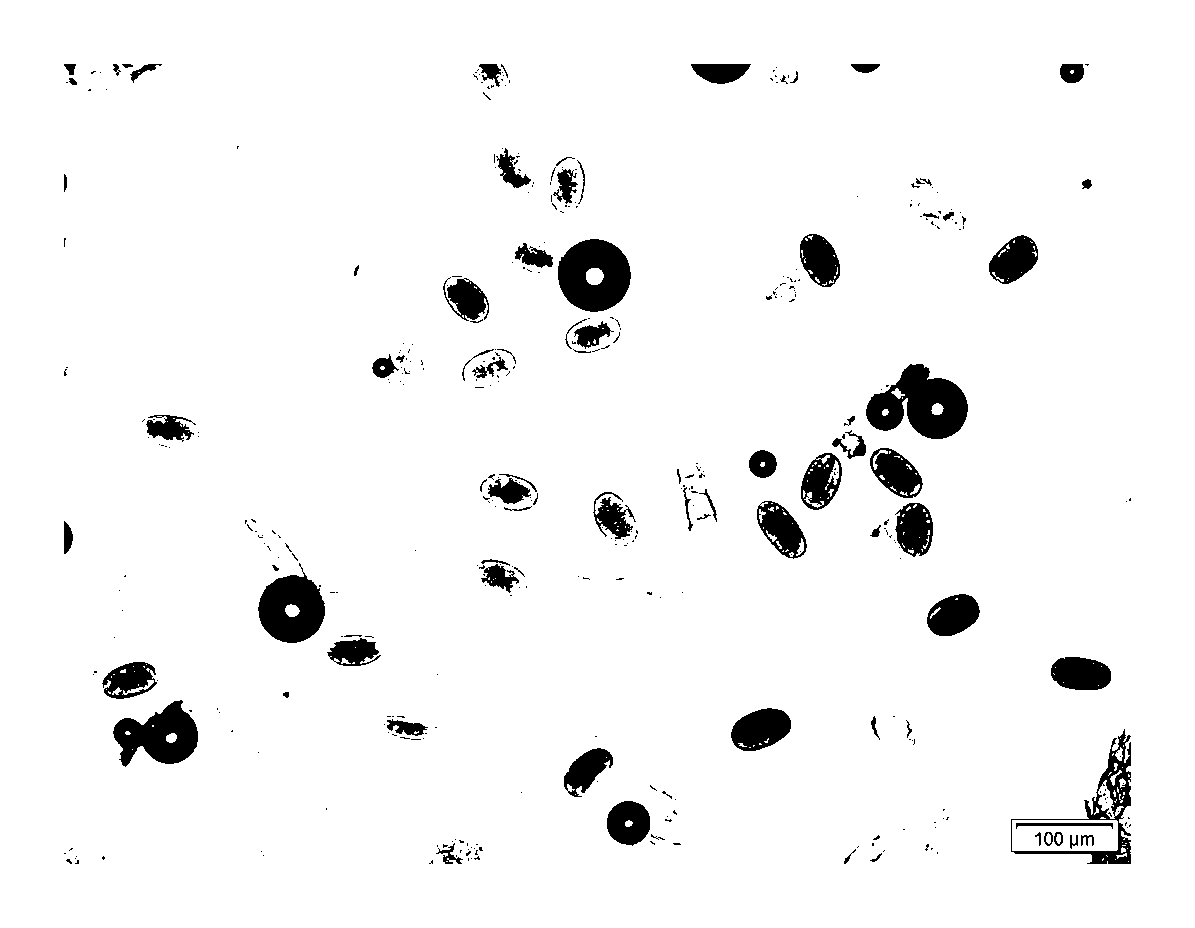
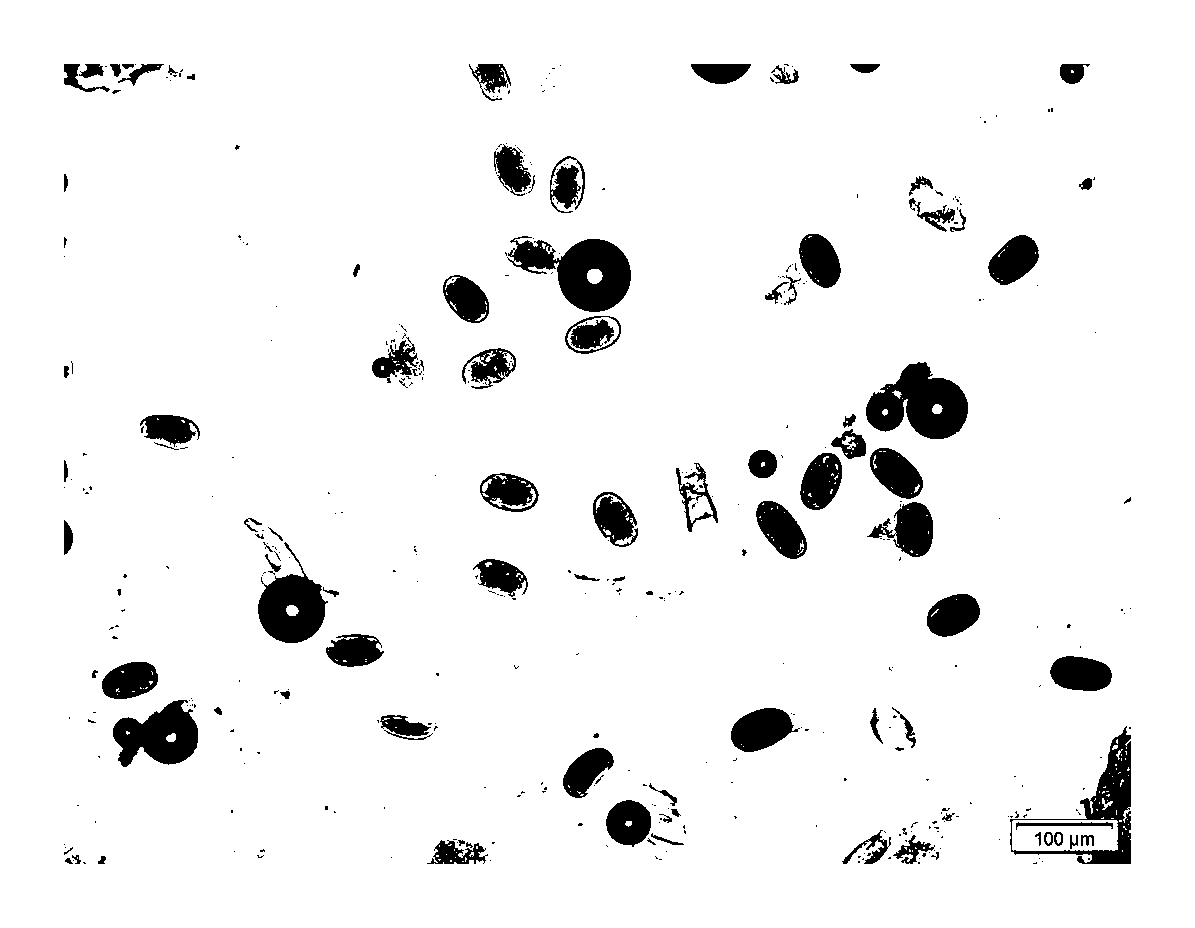
e

diff --git a/test.py b/test.py
@@ -8,6 +8,7 @@ from matplotlib.animation import FuncAnimation
 import sys
 from imageHelper import pad, pad_all
 from detect import testProtocol, Parasite
+import math
 
 from ellipseDetector import ellipseDetector
 
@@ -26,25 +27,22 @@ for fileName in ImageFiles:
             topLeft = (int(cX-width/2), int(cY-height/2))
             bottomRight = (int(cX+width/2), int(cY+height/2))
             area = width*height
-            Parasites.append(Parasite(cX, cY, width, height, area))
             testImg = cv2.rectangle(testImg, topLeft, bottomRight, (0,130,0), 2)
+            cX+=64 #ACCOUNTS FOR PADDING
+            cY+=64
+            Parasites.append(Parasite(cX, cY, width, height, area))
 
-    Images.append((testImg, fileName))
+    Images.append((testImg, fileName, Parasites))
     #cv2.imshow("TEST", testImg)
     #cv2.waitKey(0)
     #cv2.destroyAllWindows()
-    
-def calculate_error(expected, observed):
-    pass  
 
 def getTestImages(Images):
+    print(len(Images))
     detected = []
     for (img,file,Parasites) in Images:
         im_t, observed = testProtocol(file, img, 210, Parasites)
-        
-        
-        
-        
+        calculate_error(Parasites,observed)
         image_rgb = cv2.cvtColor(im_t, cv2.COLOR_BGR2RGB)
         pil_image = Image.fromarray(image_rgb)
         pil_image = pil_image.resize((533,400), Image.Resampling.LANCZOS)
@@ -52,6 +50,73 @@ def getTestImages(Images):
         detected.append(tk_image)
     
     return detected
+
+def calculate_squared_distance(x1, y1, x2, y2):
+    return (x2 - x1) ** 2 + (y2 - y1) ** 2
+
+def calculate_error(expected, observed):
+    exp_size = len(expected)
+    ob_size = len(observed)
+    miss_nums = []
+
+    if ob_size > exp_size * 1.5:
+        print("Too many detected parasites, increase binary threshold.")
+        #return miss_nums
+    elif ob_size < exp_size * 0.4:
+        print("Not enough detected parasites, decrease binary threshold.")
+        #return miss_nums
+
+    duplicates = 0
+    misses = 0
+    total_error = 0
+    undetected = 0
+
+    detection_paired = [1] * ob_size
+
+    for i in range(exp_size):
+        max_dist = 901
+        paired = False
+        p1 = expected[i]
+        for a in range(ob_size):
+            p2 = observed[a]
+            curr_dist = calculate_squared_distance(p1.centerX, p1.centerY, p2.centerX, p2.centerY)
+            if curr_dist < 900:
+                detection_paired[a] = 0
+                real_dist = math.sqrt(curr_dist)
+
+                if not paired:
+                    paired = True
+                    total_error += 0.1 * real_dist
+                else:
+                    duplicates += 1
+                    #print(f"DUPLICATE parasite detection found at {p2.centerX},{p2.centerY}")
+                    total_error += 0.5 * real_dist
+                #print(f"\nOBSERVED PARASITE found at {p2.centerX},{p2.centerY}")
+                #print(f"{real_dist} from expected parasite at {p1.centerX}, {p1.centerY}")
+
+                if curr_dist < max_dist:
+                    max_dist = curr_dist
+        if max_dist == 901:
+            #print(f"Undetected Barber Worm Egg!!! at {p1.centerX},{p1.centerY}")
+            undetected += 1
+
+    for i, num in enumerate(detection_paired):
+        if num == 1:
+            miss_nums.append(i)
+        misses += num
+
+    print("\n-----------PERFORMANCE-----------\n")
+    print(f"Parasites Expected: {exp_size}")
+    print(f"Parasites Detected: {ob_size}")
+    print(f"Undetected Parasite Eggs: {undetected}")
+    print(f"False Positive Eggs: {misses}\n")
+    print("\n---------ERROR ANALYSIS----------\n")
+    print(f"DistanceError: {total_error}")
+    total_error += 5 * misses
+    total_error += 20 * undetected
+    print(f"Total Error Score: {total_error}\n")
+
+    return miss_nums
 
 
 root = tk.Tk()
@@ -66,7 +131,7 @@ label3 = tk.Label(root, image = testImgs[2])
 
 label1.grid(row=0, column=0)
 label2.grid(row=1, column=0)
-label3.grid(row=2, column=0)
+label3.grid(row=1, column=1)
 
 root.geometry("1500x800")
 

diff --git a/detect.py b/detect.py
@@ -12,15 +12,28 @@ class Parasite:
         self.height = height
         self.estArea = estArea
 
-def getBestEllipse(ellipseHelper, Contour):
-    return ellipseHelper.fitEllipse_Polygon(Contour)
+def getBestEllipse(ellipseHelper, Contour, size):
+    return ellipseHelper.fitEllipse_Polygon(Contour,size)
 
 def getBinaryThreshold(gray_image, threshold):
+    blur = cv2.GaussianBlur(gray_image, (3,3), 0)
+    otsu_threshold, image_result = cv2.threshold(blur, 0, 255, cv2.THRESH_BINARY + cv2.THRESH_OTSU)
+    return(image_result)
+    
     #OTSU METHOD
-    return cv2.threshold(gray_image, 0, 255, cv2.THRESH_BINARY+cv2.THRESH_OTSU)[1]
+    #return cv2.threshold(gray_image, 0, 255, cv2.THRESH_BINARY+cv2.THRESH_OTSU)[1]
+
+    #OTSU with Blur
+    #
+    #return cv2.threshold(blur, 0, 255, cv2.THRESH_BINARY+cv2.THRESH_OTSU)[1]
+
+    #Adaptive Thresholding with Blur 
+    #return cv2.adaptiveThreshold(blur, 255, cv2.ADAPTIVE_THRESH_MEAN_C, cv2.THRESH_BINARY, 9, 3)
+
+    #return cv2.adaptiveThreshold(blur, 255, cv2.ADAPTIVE_THRESH_GAUSSIAN_C, cv2.THRESH_BINARY, 9, 3)
     
     #TRADITIONAL METHOD
-    #return cv2.threshold(gray_image, threshold, 255, cv2.THRESH_BINARY)[1] 
+    #return cv2.threshold(gray_image, 220, 255, cv2.THRESH_BINARY)[1] 
 
 def detectParasites(fileName, thresh, outFile = "", saveImages = True):
     
@@ -34,6 +47,7 @@ def detectParasites(fileName, thresh, outFile = "", saveImages = True):
     #print(binary.shape)
     #print(contourImage.shape)
     #print(contourImage)
+    size = im_gray.shape
     
     im_gray, binary, contourImage, ellipseImage = pad_all([im_gray, binary, contourImage, ellipseImage])
     
@@ -53,10 +67,11 @@ def detectParasites(fileName, thresh, outFile = "", saveImages = True):
     
     num_eggs = 0
     
+    
     ellipseHelper = ellipseDetector()
     for contour in contours: 
         if len(contour)>=5:
-            bestEllipse = getBestEllipse(ellipseHelper, contour)
+            bestEllipse = getBestEllipse(ellipseHelper, contour, size)
             if not bestEllipse == None: 
                 cv2.ellipse(ellipseImage, bestEllipse, (0,0,255), 3)
                 num_eggs+=1
@@ -80,6 +95,8 @@ def testProtocol(fileName, img, thresh, Parasites):
     
     binary = getBinaryThreshold(im_gray, thresh)
     
+    size = im_gray.shape
+    
     im_gray, binary, greenMat = pad_all([im_gray, binary, greenMat])
     
     contours = cv2.findContours(binary, cv2.RETR_TREE, cv2.CHAIN_APPROX_SIMPLE)[0]
@@ -90,7 +107,7 @@ def testProtocol(fileName, img, thresh, Parasites):
     observedParasites = []
     for contour in contours: 
         if len(contour)>=5:
-            bestEllipse = getBestEllipse(ellipseHelper, contour)
+            bestEllipse = getBestEllipse(ellipseHelper, contour, size)
             if not bestEllipse == None: 
                 cv2.ellipse(greenMat, bestEllipse, (0,0,255), 3)
                 (cx,cy),(ma,ml),a = bestEllipse

diff --git a/plot_test.py b/plot_test.py
@@ -2,35 +2,32 @@ import matplotlib.pyplot as plt
 import numpy as np
 
 # Data
-samples = ['Easy', 'Medium', 'Hard']
-
-errors_image1 = [85,75, 90, 75,75,]
-errors_image2 = [556,525,506, 546,545,]
-errors_image3 = [486,496, 493, 467,482,]
-
-
+months = ['January', 'February', 'March', 'April', 'May']
+sales_2020 = [200, 220, 250, 210, 230]
+car_sales_2021 = [120, 140, 160, 130, 150]  # New data for car sales in 2021
+real_estate_sales_2021 = [90, 100, 100, 90, 100]  # New data for real-estate sales in 2021
 
 # Calculating total sales for 2021 by summing car sales and real-estate sales
-observed_parasites = [car + real_estate for car, real_estate in zip(correct_parasites, false_positives)]
+sales_2021 = [car + real_estate for car, real_estate in zip(car_sales_2021, real_estate_sales_2021)]
 
 # X locations for the groups
-x = np.arange(3)
+x = np.arange(len(months))
 
 # Width of the bars
 width = 0.35
 
 # Creating the bar graph
 fig, ax = plt.subplots()
-rects1 = ax.bar(x - width/2, expected_parasites, width, label='Expected')
-rects2 = ax.bar(x + width/2, false_positives, width, label='False Positives', bottom=correct_parasites)
-ax.bar(x + width/2, correct_parasites, width, label='Correctly Identified Parasites', color='green')
+rects1 = ax.bar(x - width/2, sales_2020, width, label='2020')
+rects2 = ax.bar(x + width/2, car_sales_2021, width, label='Car Sales 2021', bottom=real_estate_sales_2021)
+ax.bar(x + width/2, real_estate_sales_2021, width, label='Real Estate Sales 2021', color='grey')
 
 # Adding labels, title, and custom x-axis tick labels
 ax.set_xlabel('Month')
 ax.set_ylabel('Sales (in units)')
 ax.set_title('Monthly Sales Comparison between 2020 and 2021')
 ax.set_xticks(x)
-ax.set_xticklabels(samples)
+ax.set_xticklabels(months)
 ax.legend()
 
 # Function to attach a text label above each bar in *rects*

diff --git a/ellipseDetector.py b/ellipseDetector.py
@@ -33,7 +33,7 @@ class ellipseDetector:
         nearestEX, nearestEY = cxE + radX * math.cos(angleToCenterE), cyE * -1 + radY * math.sin(angleToCenterE)
         return (ptX - nearestEX) ** 2 + (ptY * -1 - nearestEY * -1) ** 2, (nearestEX, -1 * nearestEY)
     
-    def fitEllipse_RANSAC(self, Contour):
+    def fitEllipse_RANSAC(self, Contour, size):
         if len(Contour) < 5:
             print("Contour Too Small")
             
@@ -58,7 +58,7 @@ class ellipseDetector:
         
         return bestFit
     
-    def fitEllipse_Polygon(self, Contour):
+    def fitEllipse_Polygon(self, Contour, size):
         area = int(cv2.contourArea(Contour))  # Cast area to int (though not necessary in Python)
         bounding_box = cv2.boundingRect(Contour)
         aspect_ratio = bounding_box[2] / bounding_box[3]  # Width divided by Height
@@ -66,7 +66,10 @@ class ellipseDetector:
         # Filter based on aspect ratio and minimum size
         elongation_factor = abs(1 - aspect_ratio)
         
-        if 0.1 < elongation_factor and elongation_factor < 1 and 1000 < area < 9000:
+        areaMin = size[0]*1.5
+        areaMax = size[0]*7
+        
+        if 0.1 < elongation_factor and elongation_factor < 1 and areaMin < area < areaMax:
             # Approximate contour to smooth shape
             epsilon = 0.01 * cv2.arcLength(Contour, True)
             approx = cv2.approxPolyDP(Contour, epsilon, True)
